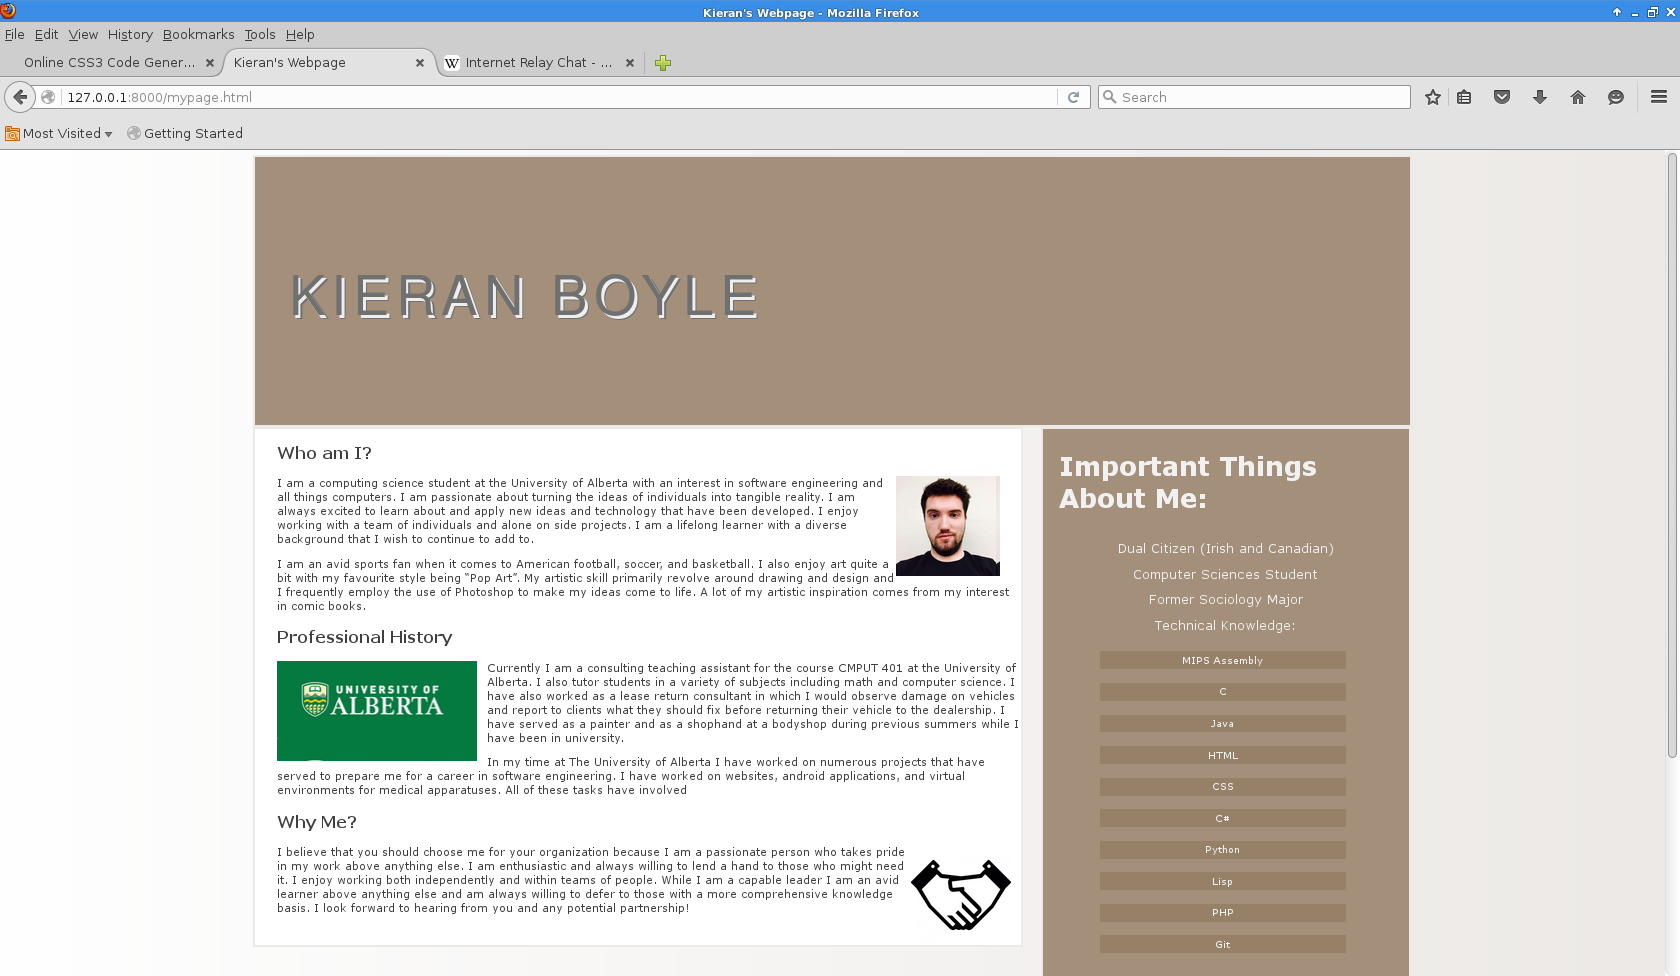
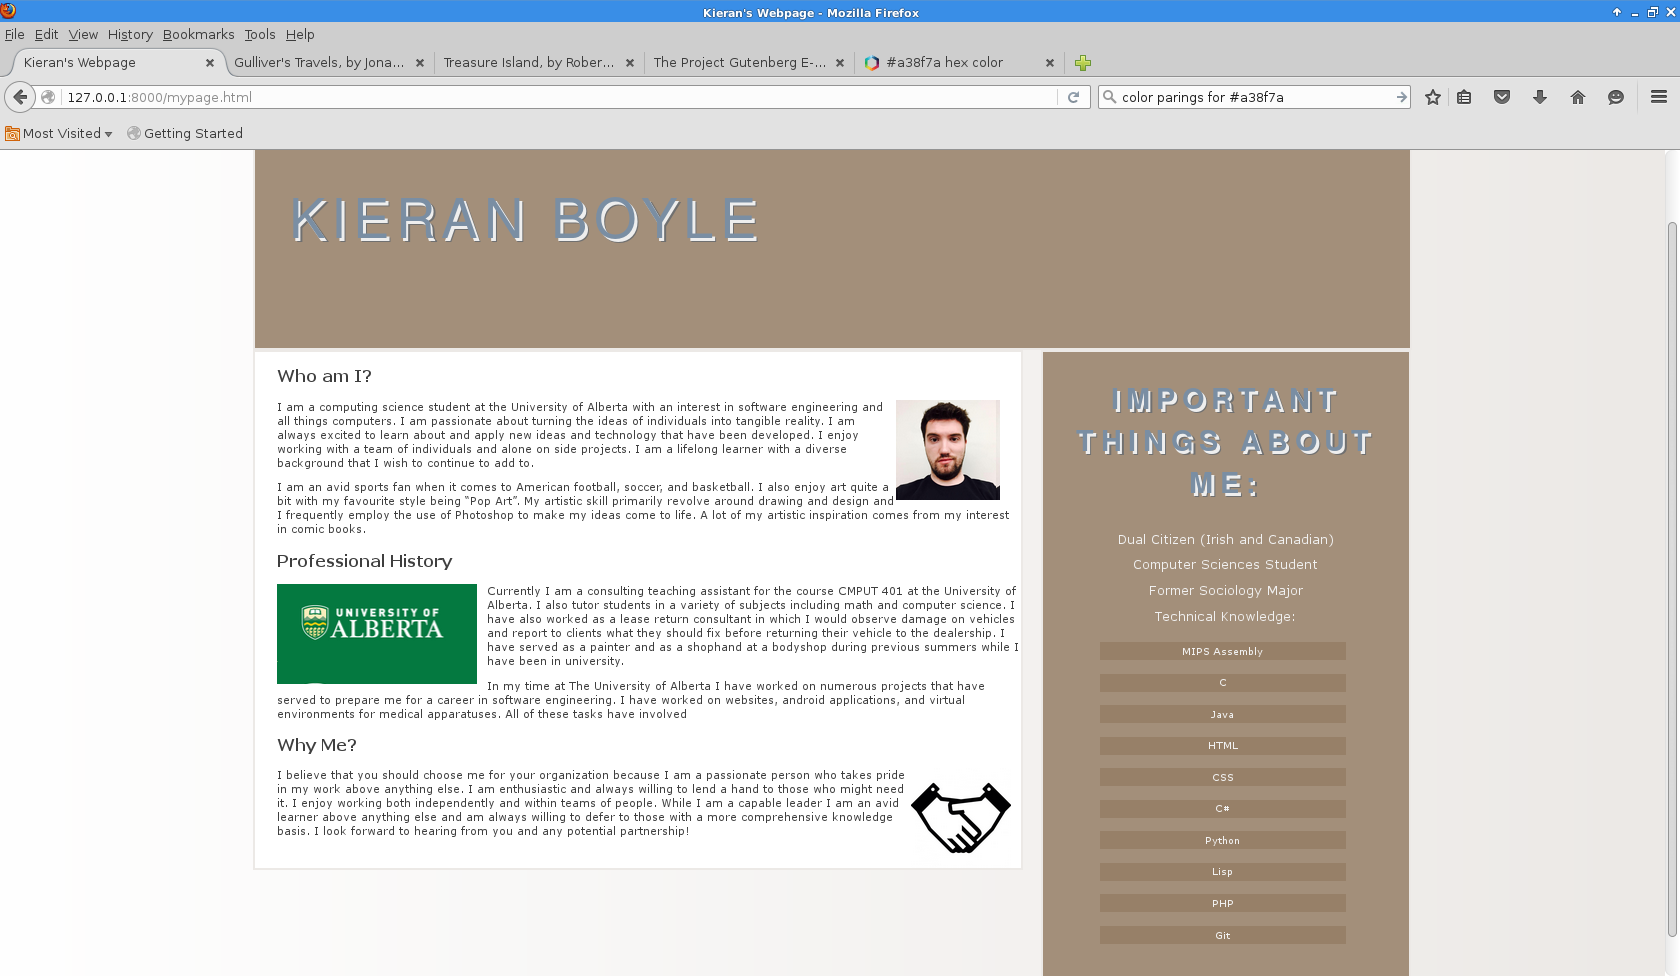
addign descriptions

diff --git a/good.css b/good.css
@@ -46,7 +46,7 @@ p {
   color: #f1f1f1;
   background-size: 100%;
 	width: 20% ;
-	height: 100%;
+	height: 80%;
 	
 	margin-right: 15.25%;
   padding-left: 1%;
@@ -62,7 +62,21 @@ p {
 }
 #sidebarHeader{
   text-align: left;
-  font-size: 160%;
+
+    -webkit-box-sizing: content-box;
+  -moz-box-sizing: content-box;
+  box-sizing: content-box;
+  margin: 0 auto;
+  border: none;
+  font: normal 180%/normal "Anton", Helvetica, sans-serif;
+  color: #7a8ea3;
+  text-align: center;
+  text-transform: uppercase;
+  -o-text-overflow: clip;
+  text-overflow: clip;
+  letter-spacing: 10px;
+  text-shadow: 4px 4px 0 rgb(238,238,238) , 6px 6px 0 rgb(112,112,112) ;
+
 
 }
 
@@ -140,7 +154,7 @@ ul li {
   margin: 0 auto;
   border: none;
   font: normal 82px/normal "Anton", Helvetica, sans-serif;
-  color: rgb(112, 112, 112);
+  color: #7a8ea3;
   text-align: center;
   text-transform: uppercase;
   -o-text-overflow: clip;

diff --git a/mypage.html b/mypage.html
@@ -5,7 +5,7 @@
     <title>Kieran's Webpage</title>
     <!--<link rel="stylesheet" href="bad.css" type="text/css" 
 http://enjoycss.com/code/#-->
-    <link rel="stylesheet" href="bad.css" type="text/css"/>
+    <link rel="stylesheet" href="good.css" type="text/css"/>
   
     
 </head>

diff --git a/Part1/theme.css b/Part1/theme.css
@@ -51,8 +51,8 @@
     }
 
     .mynote{
-        background-color: #DDE; 
-        color: #ffffb3; 
+        background-color:#d9b48c; 
+        color: #d9b48c; 
         padding: .5em; 
         margin-left: 10%; 
         margin-right: 10%; 

diff --git a/README.md b/README.md
@@ -21,4 +21,11 @@ repository and (C) 2013 Abram Hindle visibile in the text.
 
 Code is licensed under the Apache 2.0 license.
 
+Gutenberg Changes
+=================
+
+I removed everything within the <style></style> tags and sadded in a link to my stylesheets. For my edits to the cssI underlined the photo captions, outlined the photos in blue, changed the background colour to a more pleasing colour, centered the body,changed the color of the author's note section so you can't see it, I changed all the fonts to a cursive format. I tried to make the document look more "old timey" 
+
+Other than hese adjustments I did not really touch the HTML for the Guttenburg files in order to preserve the format.
+
 
